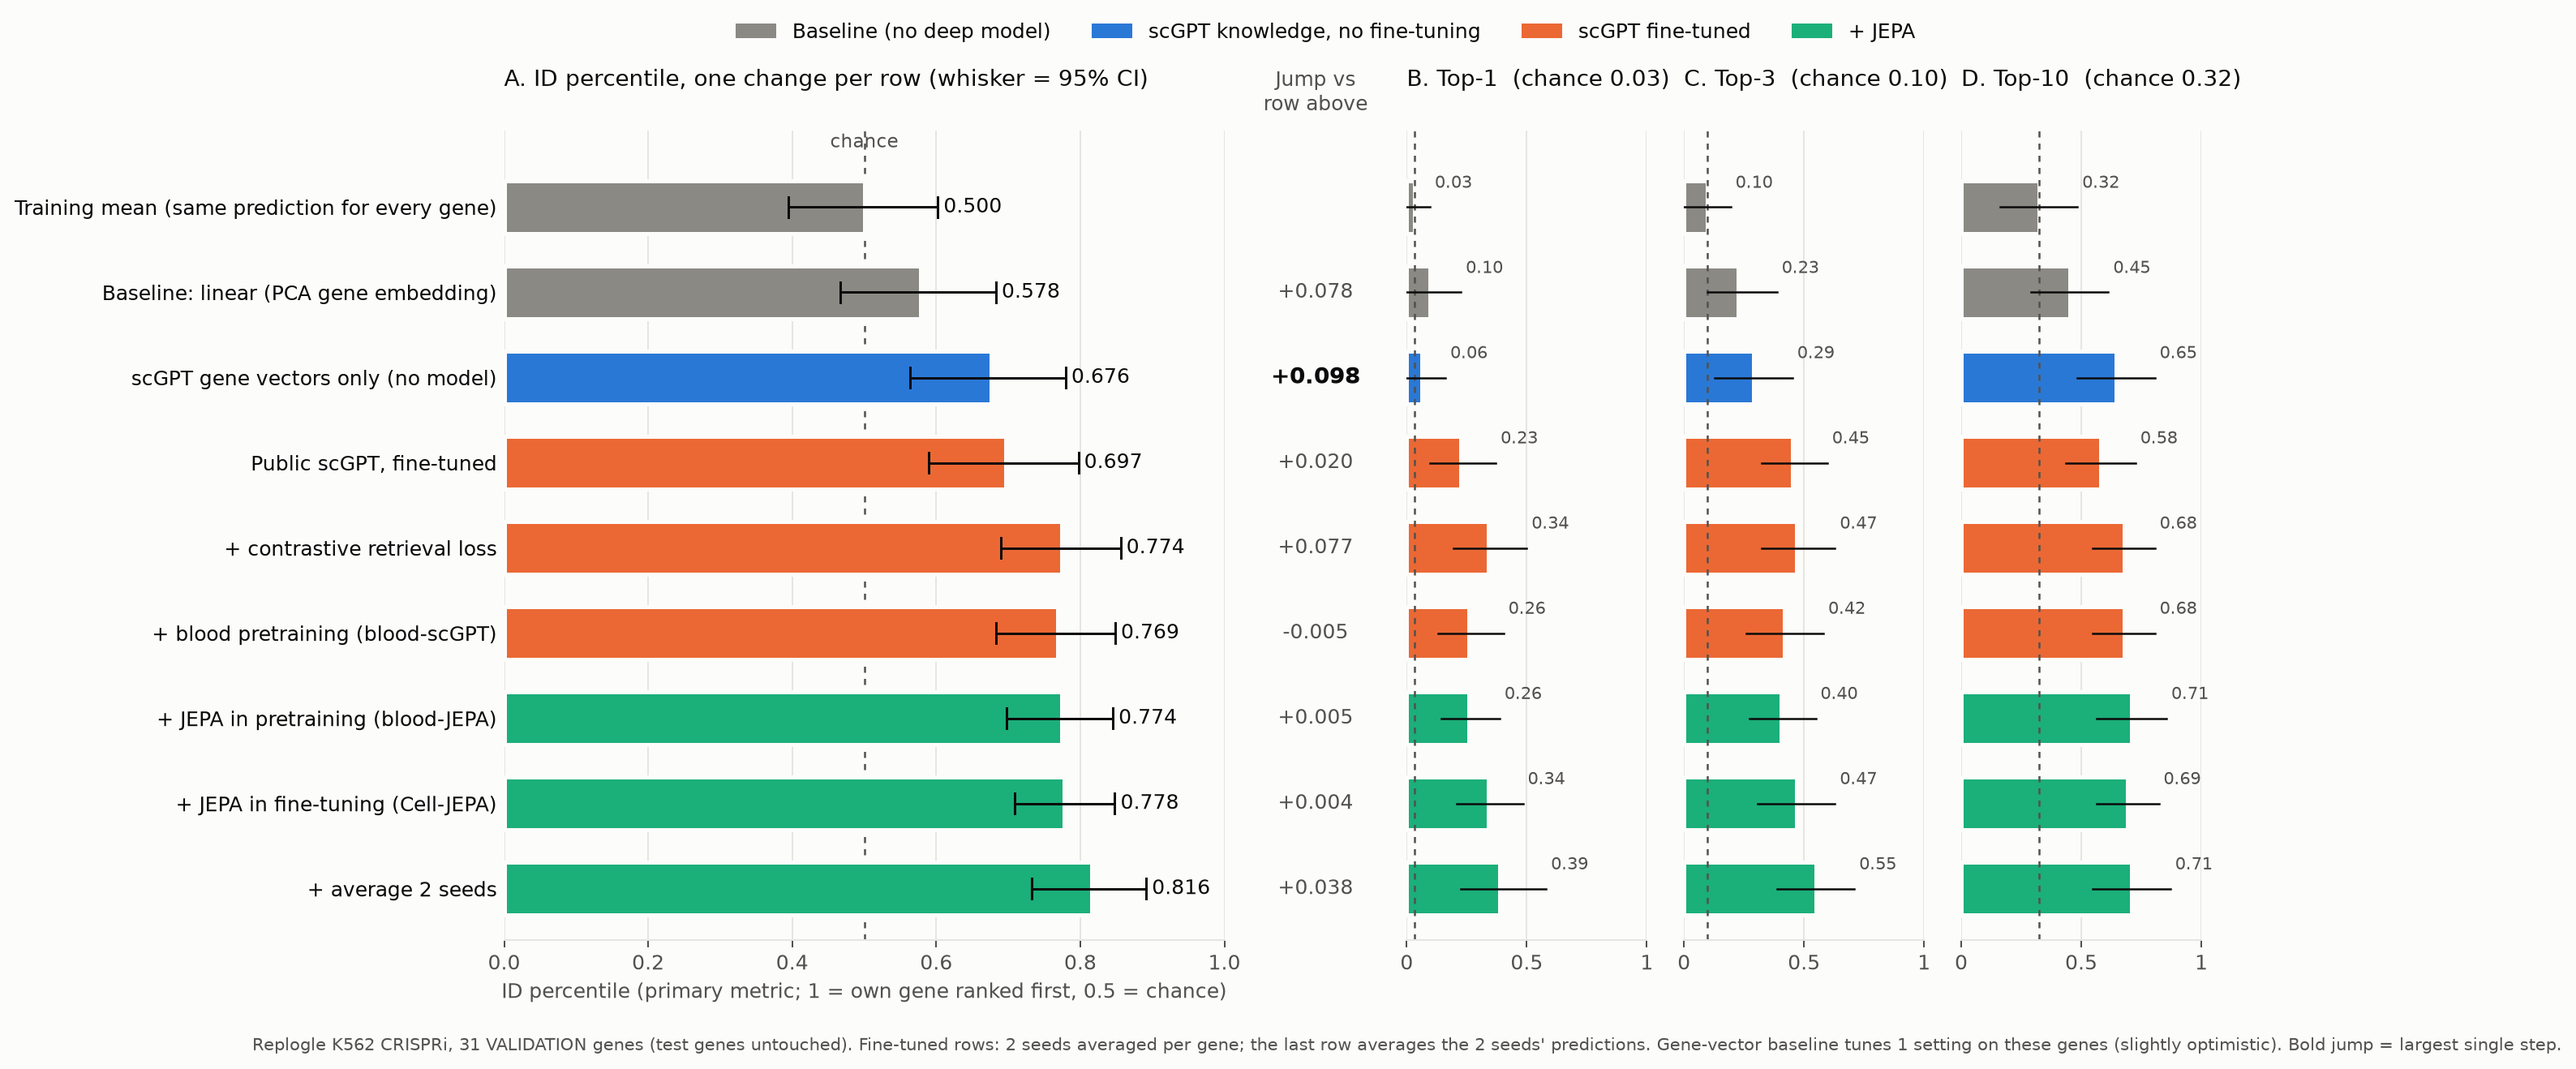
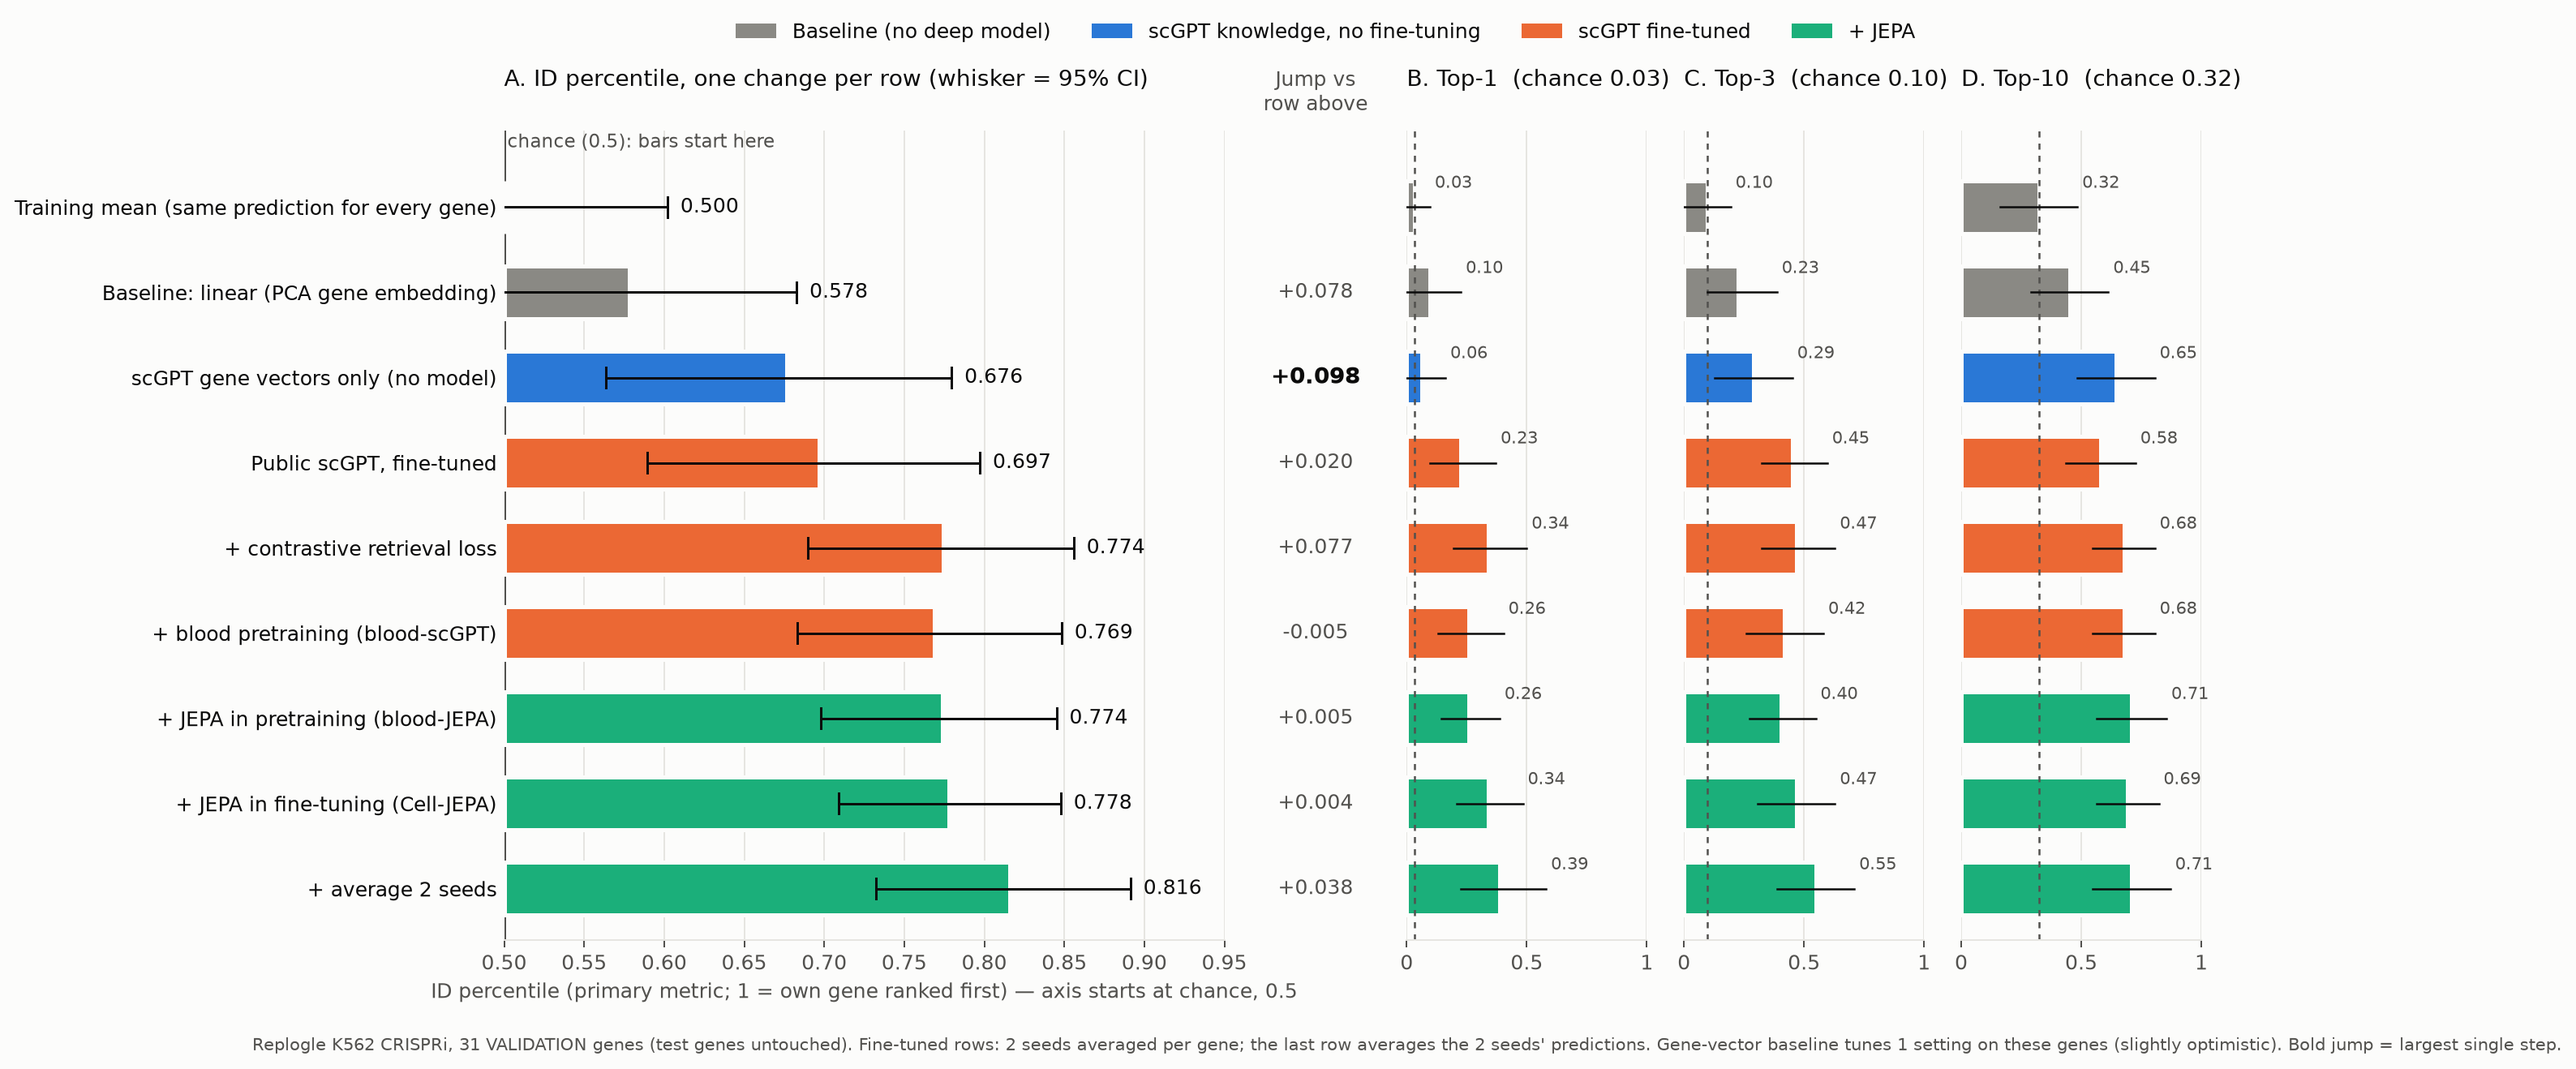
A25 bar figure: panel A bars start at chance (0.5), axis 0.5-0.95

Changed region(s): [[0.2182, 0.2489, 0.4676, 0.7777], [0.1559, 0.8088, 0.4987, 0.9332], [0.187, 0.1244, 0.3741, 0.2178]]

diff --git a/diag/fig_ladder.py b/diag/fig_ladder.py
@@ -62,7 +62,7 @@ big = max(model_jumps, key=lambda i: model_jumps[i])
 for y, (lab, arm, g), (m, lo, hi), j in zip(ys, STEPS, pct, jumps):
     col = GROUPS[g][0]
     if BARS:
-        ax.barh(y, m, height=0.62, color=col, edgecolor=SURF, linewidth=2, zorder=2)
+        ax.barh(y, m - 0.5, left=0.5, height=0.62, color=col, edgecolor=SURF, linewidth=2, zorder=2)
         ax.plot([lo, hi], [y, y], color=INK, lw=1.2, zorder=3)
         ax.plot([lo, lo], [y - 0.12, y + 0.12], color=INK, lw=1.2, zorder=3)
         ax.plot([hi, hi], [y - 0.12, y + 0.12], color=INK, lw=1.2, zorder=3)
@@ -74,13 +74,17 @@ for y, (lab, arm, g), (m, lo, hi), j in zip(ys, STEPS, pct, jumps):
         bold = (ys.index(y) == big)
         jx.text(0.5, y, f"{j:+.3f}", va="center", ha="center", fontsize=11 if bold else 10,
                 fontweight="bold" if bold else "normal", color=INK if bold else INK2)
-ax.axvline(0.5, color=INK2, lw=1, ls=(0, (3, 3)), zorder=1)
-ax.text(0.5, len(STEPS) - 0.35, "chance", ha="center", va="bottom", fontsize=9, color=INK2)
+if BARS:
+    ax.axvline(0.5, color=INK2, lw=1.2, zorder=1)
+    ax.text(0.502, len(STEPS) - 0.35, "chance (0.5): bars start here", ha="left", va="bottom", fontsize=9, color=INK2)
+else:
+    ax.axvline(0.5, color=INK2, lw=1, ls=(0, (3, 3)), zorder=1)
+    ax.text(0.5, len(STEPS) - 0.35, "chance", ha="center", va="bottom", fontsize=9, color=INK2)
 ax.set_yticks(ys)
 ax.set_yticklabels([s[0] for s in STEPS])
-ax.set_xlim((0, 1.0) if BARS else (0.40, 0.95))
+ax.set_xlim((0.5, 0.95) if BARS else (0.40, 0.95))
 ax.set_ylim(-0.6, len(STEPS) - 0.1)
-ax.set_xlabel("ID percentile (primary metric; 1 = own gene ranked first, 0.5 = chance)")
+ax.set_xlabel("ID percentile (primary metric; 1 = own gene ranked first)" + (" — axis starts at chance, 0.5" if BARS else ", 0.5 = chance"))
 ax.grid(axis="x", color=GRID, lw=0.8)
 ax.set_axisbelow(True)
 for sp in ("top", "right", "left"):
